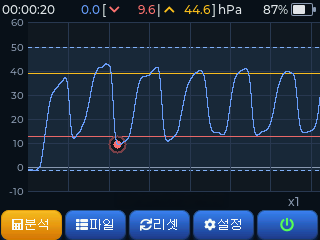
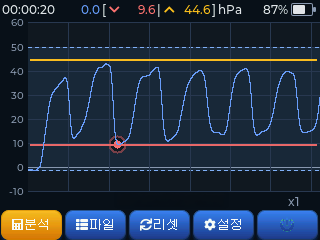
docs(manual): 2.4 그래프 추적선 정정 (최고점=주황·최저점=빨강)
이전 보정은 분석 통계선(고점/저점 평균)을 색만 바꾼 것이라 실시간 화면과
불일치. 초록선 제거 후 실시간 추적선으로 다시 그림:
- 주황선 = 측정선 최고점 살짝 위(실제 최고점은 화면 밖 위)
- 빨강선 = 빨간 원(현재 최저점) 위치
캡션도 추적선 의미로 정정.

diff --git a/manual.html b/manual.html
@@ -223,7 +223,7 @@
 </ol>
 
 <h3 id="s2_4">2.4 메인 화면 보는 법</h3>
-<figure class="fig shot"><img src="assets/screen-frenzel.png" alt="메인 화면"><figcaption>메인 화면 — 상단 압력 3값·스톱워치·배터리 + 그래프 + 하단 5버튼 (위 주황선=최고, 아래 빨강선=최저 압력 기준)</figcaption></figure>
+<figure class="fig shot"><img src="assets/screen-frenzel.png" alt="메인 화면"><figcaption>메인 화면 — 상단 압력 3값·스톱워치·배터리 + 그래프 + 하단 5버튼. 주황선=최고점·빨강선=최저점 추적(빨간 원=현재 최저점)</figcaption></figure>
 <p>측정 중 메인 화면에는 다음이 함께 표시됩니다.</p>
 <ul>
   <li><strong>압력 3값</strong> — 현재 / 최저(▼) / 최고(▲) 압력 (hPa)</li>